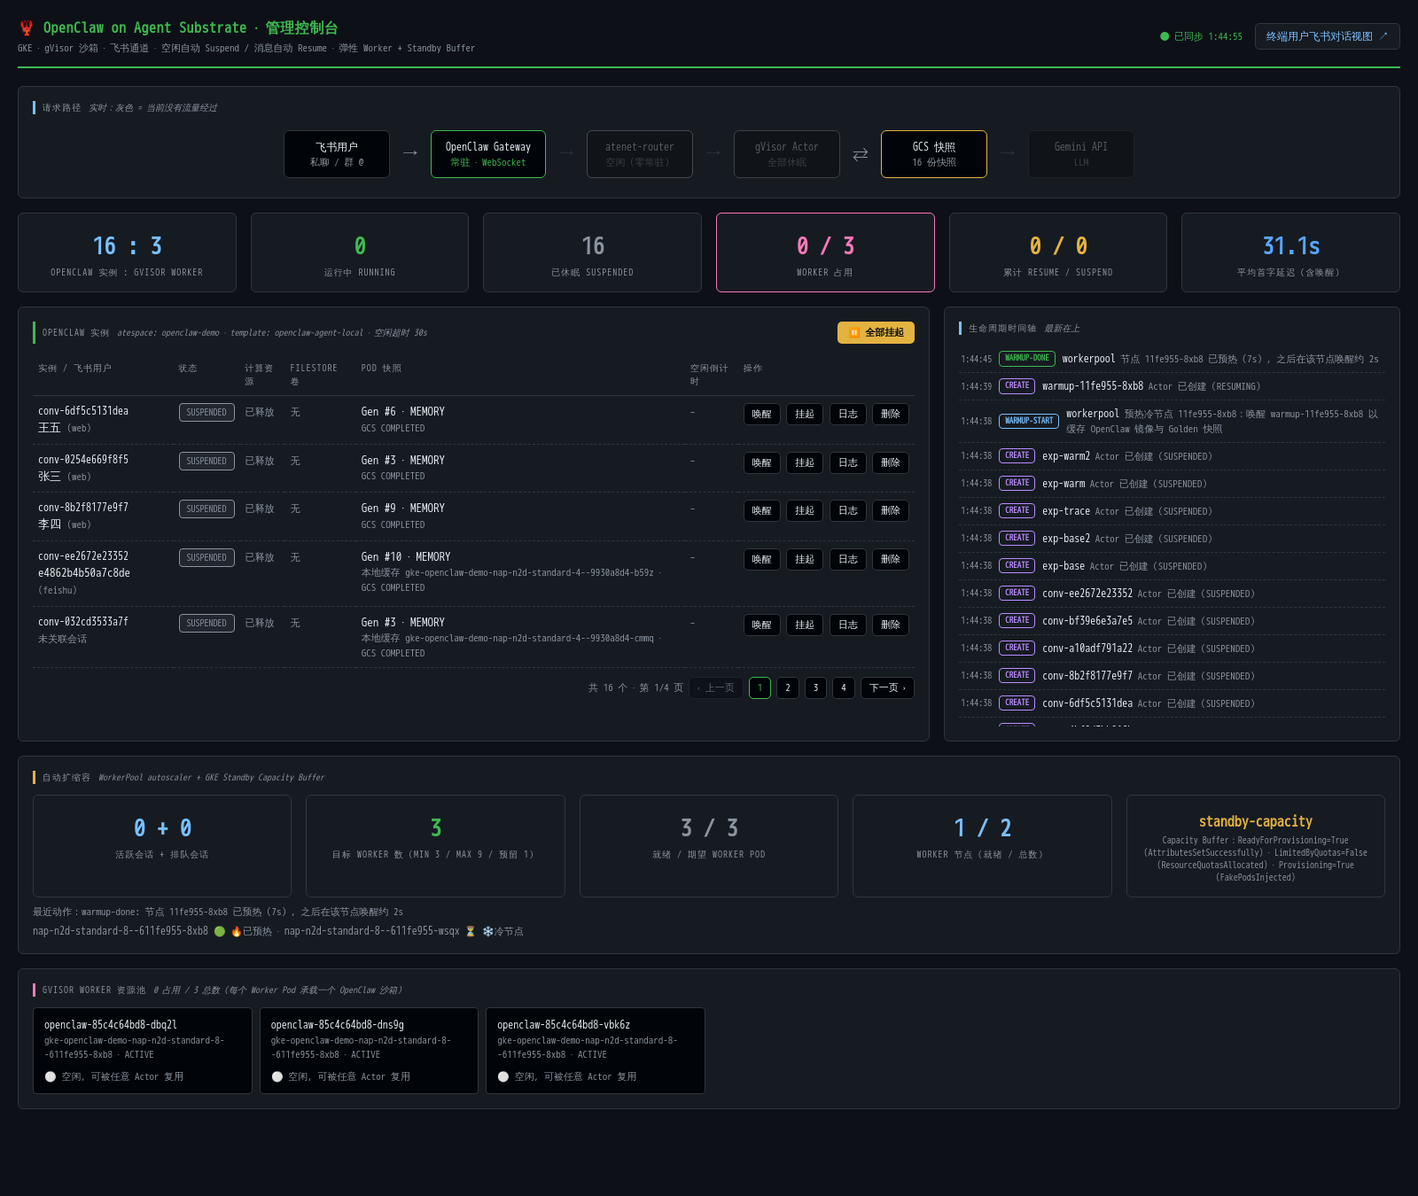
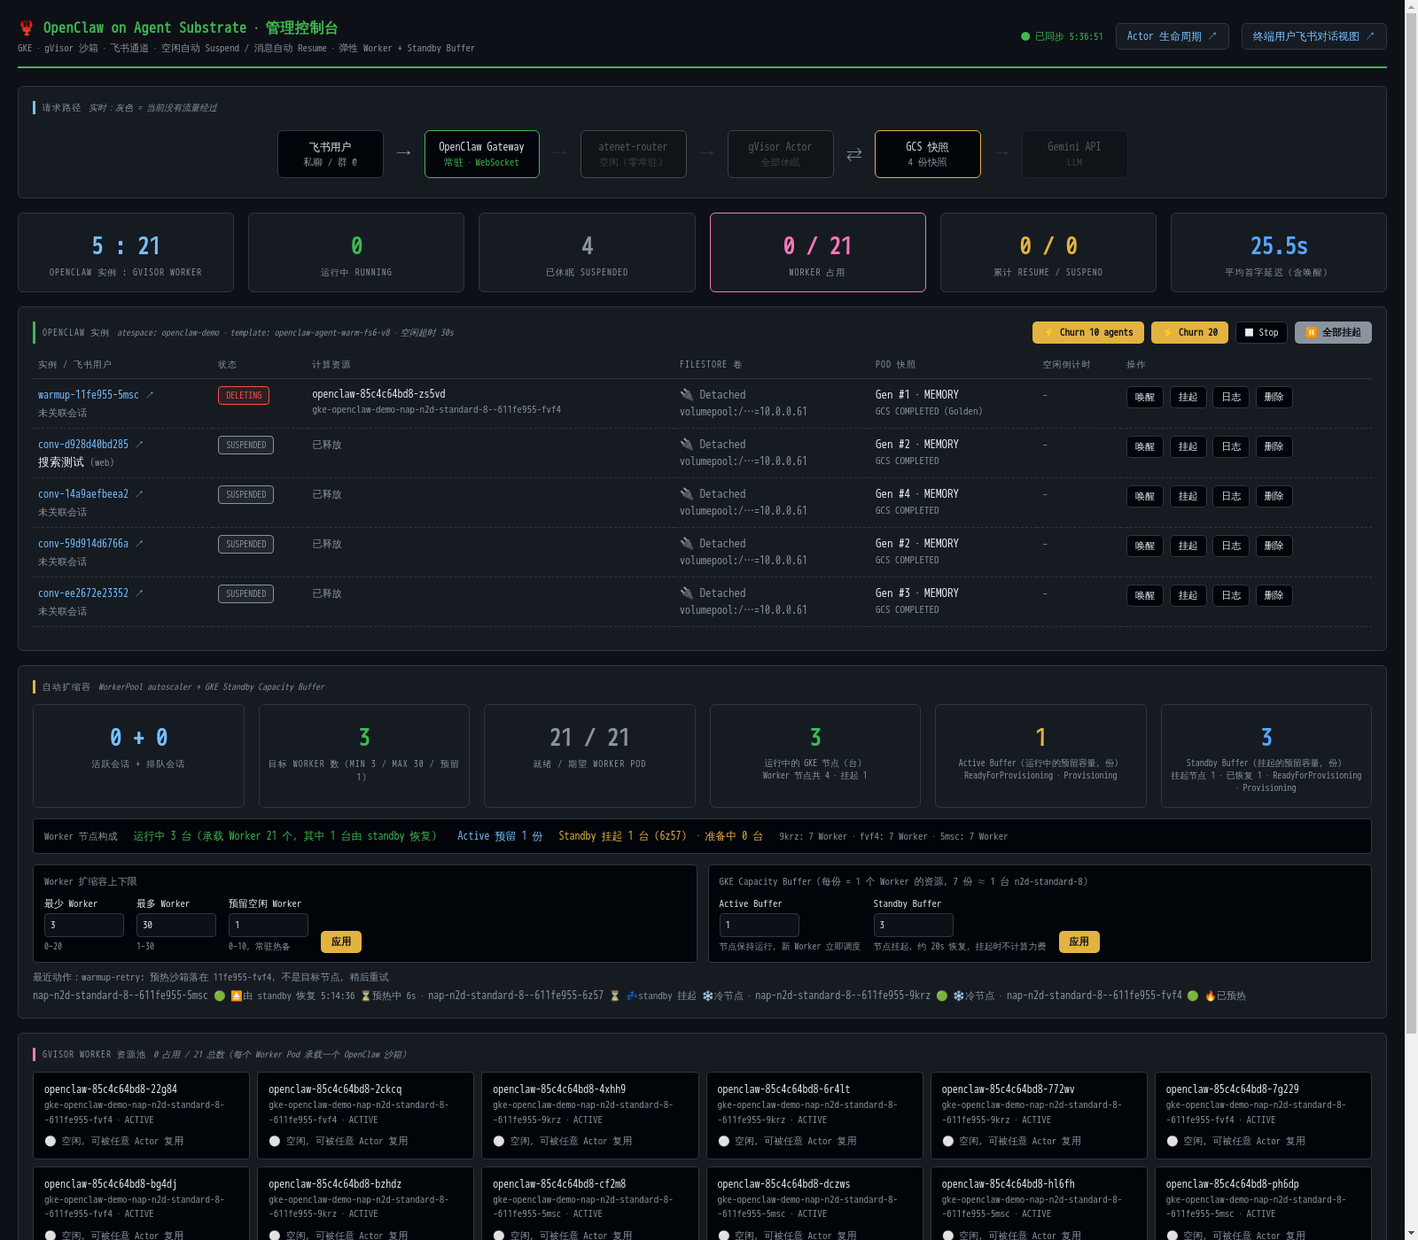
openclaw/substrate-poc: active buffer, buffer controls, web search fix
- Actor openclaw.json: web search uses Gemini grounding with
  gemini-3-flash-preview (gemini-2.5-flash returns 404 on this API).
- New templates: openclaw-agent-warm-fs6-v8 (Filestore) and
  openclaw-agent-warm2-v8 (local / churn).
- capacitybuffer.yaml adds an Active CapacityBuffer (replicas 0); deploy.sh
  creates buffers only if absent so console edits survive redeploys.
- Console: running GKE node KPI, worker node composition row, inline
  controls for min/max/spare and active/standby buffer replicas, and standby
  resume detection (GKE drops the standby taint on resume).
- AUTOSCALE_MAX default 9 -> 21 so buffers can actually be triggered.
- Guide: active vs standby buffer, how to trigger them, console controls,
  troubleshooting for web search and untriggered buffers.

diff --git a/openclaw/substrate-poc/dashboard2/console.html b/openclaw/substrate-poc/dashboard2/console.html
@@ -99,6 +99,9 @@ td.ops{white-space:nowrap}.kpi .l.cond{text-transform:none;letter-spacing:0;font
 .fleet-lc{grid-template-columns:1fr;align-items:start}.fleet-lc.open{grid-template-columns:3fr 2fr}.fleet-lc .c-tl{display:none}.fleet-lc.open .c-tl{display:block}.fleet-lc .lc-main{max-height:620px}
 .fleet-lc .lc-sum{grid-template-columns:repeat(2,1fr)}
 .churn-status{font-size:11px;color:var(--cyan);margin:-4px 0 8px;min-height:0}.churn-status .ln{color:var(--muted)}
+.ctls{display:grid;grid-template-columns:1fr 1fr;gap:12px;margin-top:12px}.ctl-group{background:var(--panel2);border:1px solid var(--line);border-radius:4px;padding:10px 12px;display:flex;flex-wrap:wrap;gap:8px 14px;align-items:flex-end}
+.ctl-group>b{width:100%;font-size:11px;color:var(--muted);font-weight:600}.ctl{display:flex;flex-direction:column;gap:3px;font-size:11px}.ctl input{width:90px;background:var(--bg);color:var(--text);border:1px solid var(--line);border-radius:4px;padding:4px 6px;font:inherit}.ctl em{font-style:normal;color:var(--muted);font-size:10px;max-width:220px}
+.comp{display:flex;flex-wrap:wrap;gap:6px 18px;align-items:center;margin-top:12px;padding:10px 12px;background:var(--panel2);border:1px solid var(--line);border-radius:4px;font-size:12px}.comp>b{font-size:11px;color:var(--muted)}.c-run{color:var(--green)}.c-act{color:var(--cyan)}.c-sb{color:var(--yellow)}
 .pager{display:flex;gap:6px;align-items:center;justify-content:flex-end;margin-top:10px;font-size:11px;color:var(--muted)}
 .pager button.on{border-color:var(--green);color:var(--green)}.pager button:disabled{opacity:.35;cursor:default;border-color:var(--line);color:var(--text)}
 @media(max-width:1100px){.kpis{grid-template-columns:repeat(3,1fr)}.grid2{grid-template-columns:1fr}}
@@ -270,6 +273,9 @@ function renderChurn(d){
   const head=c.running?`⚡ Churn 进行中：${c.count} 个 Actor / ${(d.workers||[]).length} 个 Worker · 剩余 ${c.secsLeft}s · 已完成 ${c.cycles} 个周期 · 拒绝重试 ${c.refused} 次${c.failed?` · 其他错误 ${c.failed}`:""} · Worker ${d.autoscaler?.readyReplicas??"?"}/${d.autoscaler?.replicas??"?"}（目标 ${d.autoscaler?.desired??"?"}）`:"";
   el.innerHTML=(head?`<div>${head}</div>`:"")+(c.log||[]).slice(0,c.running?2:1).map(l=>`<div class="ln">${clock(l.at)} ${esc(l.msg)}</div>`).join("");
 }
+async function postJSON(path,body){const r=await fetch(path,{method:"POST",headers:{"content-type":"application/json"},body:JSON.stringify(body)});const d=await r.json();if(!d.ok)alert(d.error||"失败");refresh();return d;}
+function saveAs(){postJSON("/api/autoscaler/config",{min:+$("as-min").value,max:+$("as-max").value,spare:+$("as-spare").value});}
+async function saveBuf(){await postJSON("/api/buffer",{kind:"active",replicas:+$("bf-active").value});await postJSON("/api/buffer",{kind:"standby",replicas:+$("bf-standby").value});}
 function render(d){
   const A=d.actors||[],W=d.workers||[];
   const cnt=s=>A.filter(a=>a.status===s).length;
@@ -331,18 +337,53 @@ function render(d){
     <div class="small">${esc(w.node)} · ${esc(w.state)}</div>
     <div style="margin-top:6px">${w.actor?`🟢 <span class="mono">${esc(w.actor)}</span> <span class="badge ${w.actorStatus}">${w.actorStatus}</span>`:'<span class="small">⚪ 空闲，可被任意 Actor 复用</span>'}</div></div>`).join("")||'<span class="small">无 Worker</span>';
   const as=d.autoscaler||{};
-  const b=as.buffer||{};
-  const bcond=(b.conditions||[]).map(c=>`${esc(c.type)}=${esc(c.status)}${c.reason?" ("+esc(c.reason)+")":""}`).join(" · ")||esc(b.error||"–");
+  const sb=as.buffer||{}, ab=as.activeBuffer||{};
+  const bc=b0=>(b0.conditions||[]).filter(c=>c.status==="True").map(c=>esc(c.type)).join(" · ")||esc(b0.error||"–");
+  const nodes=as.nodes||[];
+  const nStandby=nodes.filter(n=>n.standby&&n.suspended).length, nResumed=nodes.filter(n=>n.resumedAt||(n.standby&&!n.suspended)).length, nPrep=nodes.filter(n=>n.standby&&n.suspended&&!n.ready).length;
+  // Node composition: which worker nodes are carrying workers vs. held in reserve.
+  const wPer={};for(const w of (d.workers||[]))if(w.node)wPer[w.node]=(wPer[w.node]||0)+1;
+  const comp={running:[],resumed:[],suspended:[],preparing:[],idle:[]};
+  for(const n of nodes){const k=wPer[n.name]||0;
+    if(n.standby&&n.suspended)comp.suspended.push(n);
+    else if(k>0)((n.standby||n.resumedAt)?comp.resumed:comp.running).push(n);
+    else if(!n.ready)comp.preparing.push(n);
+    else comp.idle.push(n);}
+  const wTot=Object.values(wPer).reduce((a,b)=>a+b,0);
+  const nRun=nodes.filter(n=>n.ready&&!(n.standby&&n.suspended)).length, nPrep2=nodes.filter(n=>!n.ready&&!(n.standby&&n.suspended)).length;
+  const nm=n=>esc(n.name.slice(-4));
+  const compLine=`<div class="comp"><b>Worker 节点构成</b>
+    <span class="c-run">运行中 ${comp.running.length+comp.resumed.length} 台（承载 Worker ${wTot} 个${comp.resumed.length?`，其中 ${comp.resumed.length} 台由 standby 恢复`:""}）</span>
+    <span class="c-act">Active 预留 ${ab.specReplicas??0} 份${comp.idle.length?` · 空闲运行节点 ${comp.idle.length} 台（${comp.idle.map(nm).join(", ")}）`:""}</span>
+    <span class="c-sb">Standby 挂起 ${comp.suspended.length} 台${comp.suspended.length?`（${comp.suspended.map(nm).join(", ")}）`:""} · 准备中 ${comp.preparing.length} 台${comp.preparing.length?`（${comp.preparing.map(nm).join(", ")}）`:""}</span>
+    <span class="small">${[...comp.running,...comp.resumed].map(n=>`${nm(n)}: ${wPer[n.name]} Worker`).join(" · ")}</span></div>`;
+  const ctl=(id,label,val,lo,hi,hint)=>`<label class="ctl"><span>${label}</span><input type="number" id="${id}" value="${val}" min="${lo}" max="${hi}"><em>${hint}</em></label>`;
+  const editing=["as-min","as-max","as-spare","bf-active","bf-standby"].some(id=>document.activeElement&&document.activeElement.id===id);
+  if(!editing){
   $("autoscale").innerHTML=as.enabled===false?'<span class="small">未启用</span>':
-    `<div class="kpis" style="grid-template-columns:repeat(5,1fr)">
+    `<div class="kpis" style="grid-template-columns:repeat(6,1fr)">
       <div class="kpi"><div class="v">${as.active??"–"} + ${as.waiting??0}</div><div class="l">活跃会话 + 排队会话</div></div>
       <div class="kpi"><div class="v">${as.desired??"–"}</div><div class="l">目标 Worker 数（min ${as.min} / max ${as.max} / 预留 ${as.spare}）</div></div>
       <div class="kpi"><div class="v">${as.readyReplicas??"–"} / ${as.replicas??"–"}</div><div class="l">就绪 / 期望 Worker Pod</div></div>
-      <div class="kpi"><div class="v">${(as.nodes||[]).filter(n=>n.ready).length} / ${(as.nodes||[]).length}</div><div class="l">Worker 节点（就绪 / 总数）</div></div>
-      <div class="kpi"><div class="v" style="font-size:16px">${esc(b.strategy||"–").replace("buffer.gke.io/","")}</div><div class="l cond">Capacity Buffer：${bcond}</div></div>
+      <div class="kpi"><div class="v" style="color:var(--green)">${nRun}</div><div class="l cond">运行中的 GKE 节点（台）<br>Worker 节点共 ${nodes.length} · 挂起 ${nStandby}${nPrep2?` · 准备中 ${nPrep2}`:""}</div></div>
+      <div class="kpi"><div class="v">${ab.specReplicas??"–"}</div><div class="l cond">Active Buffer（运行中的预留容量，份）<br>${bc(ab)}</div></div>
+      <div class="kpi"><div class="v">${sb.specReplicas??"–"}</div><div class="l cond">Standby Buffer（挂起的预留容量，份）<br>挂起节点 ${nStandby} · 已恢复 ${nResumed} · ${bc(sb)}</div></div>
+    </div>
+    ${compLine}
+    <div class="ctls">
+      <div class="ctl-group"><b>Worker 扩缩容上下限</b>
+        ${ctl("as-min","最少 Worker",as.min,0,20,"0–20")}
+        ${ctl("as-max","最多 Worker",as.max,1,30,"1–30")}
+        ${ctl("as-spare","预留空闲 Worker",as.spare,0,10,"0–10，常驻热备")}
+        <button class="primary" onclick="saveAs()">应用</button></div>
+      <div class="ctl-group"><b>GKE Capacity Buffer（每份 = 1 个 Worker 的资源，7 份 ≈ 1 台 n2d-standard-8）</b>
+        ${ctl("bf-active","Active Buffer",ab.specReplicas??0,0,21,"节点保持运行，新 Worker 立即调度")}
+        ${ctl("bf-standby","Standby Buffer",sb.specReplicas??0,0,21,"节点挂起，约 20s 恢复，挂起时不计算力费")}
+        <button class="primary" onclick="saveBuf()">应用</button></div>
     </div>
     <div class="small" style="margin-top:8px">${as.lastAction?"最近动作："+esc(as.lastAction):""} ${as.lastError?'<span class="err">'+esc(as.lastError)+'</span>':""}</div>
-    <div class="small" style="margin-top:4px">${(as.nodes||[]).map(n=>{const w=(as.warmNodes||[]).includes(n.name);const ing=as.warming&&as.warming.node===n.name;return `<span class="mono">${esc(n.name.replace("gke-openclaw-demo-",""))}</span> ${n.ready?"🟢":"⏳"} ${ing?"⏳预热中 "+as.warming.elapsedSec+"s":w?"🔥已预热":"❄冷节点"}`}).join(" · ")}</div>`;
+    <div class="small" style="margin-top:4px">${nodes.map(n=>{const w=(as.warmNodes||[]).includes(n.name);const ing=as.warming&&as.warming.node===n.name;const sbTag=n.standby?(n.suspended?" 💤standby 挂起":" ⏏standby 已恢复"):(n.resumedAt?" ⏏由 standby 恢复 "+new Date(n.resumedAt).toLocaleTimeString("zh-CN",{hour12:false}):"");return `<span class="mono">${esc(n.name.replace("gke-openclaw-demo-",""))}</span> ${n.ready?"🟢":"⏳"}${sbTag} ${ing?"⏳预热中 "+as.warming.elapsedSec+"s":w?"🔥已预热":"❄冷节点"}`}).join(" · ")}</div>`;
+  }
 }
 async function refresh(){try{const d=await (await fetch("/api/state")).json();last=d;render(d)}catch(e){const y=$("sync");if(y){y.textContent="● 连接中断，重试中…";y.style.color="var(--red)"}}}
 setInterval(refresh,1500);refresh();

diff --git a/openclaw/substrate-poc-user-guide-zh.md b/openclaw/substrate-poc-user-guide-zh.md
@@ -424,11 +424,11 @@ TEMPLATE_ONLY=true OPENCLAW_VERSION=2026.8.2 STORAGE=local ./deploy.sh
 
 `deploy.sh` 是幂等的，依次完成：
 
-0. 渲染并应用 Worker 节点类 **ComputeClass** `openclaw-workers`，以及 Standby **CapacityBuffer**（设置 `CAPACITY_BUFFER_ENABLED=false` 可跳过 buffer）
+0. 渲染并应用 Worker 节点类 **ComputeClass** `openclaw-workers`，以及 Standby / Active 两个 **CapacityBuffer**（仅在不存在时创建，重复部署不会覆盖控制台里改过的份数；设置 `CAPACITY_BUFFER_ENABLED=false` 可跳过）
 1. 创建命名空间 `openclaw-workers`，部署 **WorkerPool** `openclaw`（默认 3 个 Worker，每个 request 500m/3.5Gi，limit 4CPU/4Gi）
 2. 创建命名空间 `openclaw`（打上 `ate.dev/api-access=true` 标签）和密钥
 3. 创建 **atespace** `openclaw-demo`，并通过 access policy 把 `editor` 角色授予网关和控制台的 SA
-4. 创建 golden **ActorTemplate**（`openclaw-agent-warm-fs5-v8`，本地存储模式为 `openclaw-agent-warm-v8`）：
+4. 创建 golden **ActorTemplate**（Filestore 模式为 `openclaw-agent-warm-fs6-v8`，本地存储模式及 churn 压测为 `openclaw-agent-warm2-v8`）：
    - `wakeupProbe: GET :8079/, timeout 900s`：actor 镜像的 entrypoint 在 OpenClaw `/readyz` 通过后，先在沙箱内跑一次本地预热对话，再启动 `wakeup.mjs` 打开 8079 端口；`wakeup.mjs` 在每次唤醒时补齐引导文件并创建 `files/` 软链接，且始终返回就绪。golden 因此包含**完整初始化后的 agent 运行时**，新用户首轮不用再等约 40 秒的懒加载（详见 14.3）
    - `preferredFidelity: SNAPSHOT_FIDELITY_MEMORY`：连同进程内存一起快照，唤醒后直接接着对话
    - 资源：1 vCPU / 2.5 GiB
@@ -454,6 +454,7 @@ kubectl ate get actor-templates -a openclaw-demo
 | `channels.feishu.dmPolicy` / `allowFrom` | `open` / `["*"]` | 允许所有可见范围内的用户私聊 |
 | `channels.feishu.groupPolicy` / `requireMention` / `groupSessionScope` | `open` / `true` / `group` | 群里 @机器人 才回复，每个群一个智能体 |
 | `agents.defaults.model` | `google/gemini-3-flash-preview` | 可改为其他 Gemini 模型 |
+| actor 镜像 `openclaw.json`：`tools.web.search.provider` / `plugins.entries.google.config.webSearch.model` | `gemini` / `gemini-3-flash-preview` | 联网搜索走 Gemini grounding（只需要 `generativelanguage.googleapis.com` 出网）。默认的 `gemini-2.5-flash` 在该 API 上返回 404，智能体会回复“搜索工具出现技术故障” |
 | Envoy `x-forwarded-for` | `%ENVIRONMENT(POD_IP)%` | OpenClaw 2026.11 要求代理带客户端归属头，缺失会返回 403 |
 
 ### 10.3 多用户路由（零配置）
@@ -498,7 +499,7 @@ flowchart TD
 |---|---|---|
 | Worker 层 | 自定义控制器（控制台内置）按活跃用户数扩缩 WorkerPool | 秒级响应，决定跑多少个沙箱槽位 |
 | 节点层 | GKE NAP + ComputeClass `openclaw-workers` | 按 Pending Pod 自动创建或回收 n2d-standard-8 节点（每节点最多放 7 个 Worker） |
-| 预备层 | GKE **CapacityBuffer（standby）** | 预留一台已初始化并**挂起**的节点：闲置时不收计算费用，需要时约 30 秒恢复 |
+| 预备层 | GKE **CapacityBuffer（standby / active）** | standby：预留已初始化并**挂起**的节点，闲置时不收计算费用，需要时约 20–30 秒恢复；active：预留**运行中**的空闲容量，新 Worker 立即调度（按运行节点计费） |
 
 > [!NOTE]
 > **为什么不用 HPA？** GKE 没有现成的“活跃沙箱数”指标。HPA 方案需要把 Substrate 指标导出到 Cloud Monitoring，再配 Custom Metrics Adapter，链路长、响应慢（通常 30–60s）。POC 采用自定义控制器：直接读取 Substrate 的 actor 状态，在 1 秒内决策，还能顺带做节点预热。生产上两种方式都可以，见第 17 节。
@@ -529,6 +530,26 @@ kubectl -n openclaw-workers get capacitybuffer openclaw-worker-standby -o yaml
 
 约 5 分钟后，GKE 会创建一台节点，初始化完成后把它**挂起**。可在 Compute Engine 实例列表中看到它处于 `SUSPENDED` 状态。
 
+同一个文件里还有一个 **Active CapacityBuffer** `openclaw-worker-active`（`provisioningStrategy: buffer.x-k8s.io/active-capacity`，默认 `replicas: 0`）。两者对比：
+
+| | Standby Buffer | Active Buffer |
+|---|---|---|
+| 预留形式 | 已初始化后**挂起**的节点 | 运行中节点上的空闲容量（虚拟占位 Pod，条件 `FakePodsInjected`） |
+| 闲置成本 | 只收磁盘费用 | 按运行节点计费 |
+| 被消耗后的就绪时间 | 约 20–30s（恢复节点） | 立即（节点已在运行） |
+| 消耗后 | GKE 自动再建一台节点并挂起，补满份数 | CA 自动补足空闲容量 |
+
+> [!IMPORTANT]
+> **buffer 只在 Worker Pod 因“现有节点放不下”而 Pending 时才会被消耗。** 每份 = 1 个 Worker 的资源（500m / 3.5Gi），一台 n2d-standard-8 约放 7–8 个 Worker。
+> - 如果 `AUTOSCALE_MAX` 很小（例如 9），2 台运行节点就能放下全部 Worker，永远不会 Pending，buffer 也就不会被触发。演示 buffer 时请把上限调到 21 以上（`dashboard.yaml.tmpl` 默认已改为 21，也可在控制台在线修改）。
+> - Active Buffer 的份数如果小于现有节点上的空位，CA 认为已满足，不会新拉节点；要看到“多一台空闲运行节点”，份数需要大于现有空位。
+> - 控制台上 buffer 的大数字是**设定的份数**（`spec.replicas`），被消耗后 GKE 会自动补回，所以这个数字通常不变；实际发生的恢复看“已恢复”计数、节点构成行和事件流。
+
+**触发演示**：
+
+1. 控制台把“最多 Worker”调到 21，点 **⚡ Churn 20**：Worker 需求超过 2 台节点的容量，Pending Pod 触发 standby 节点恢复，事件流出现“Standby 节点 xxx 已被恢复”，随后 GKE 再建一台新的挂起节点补足份数。
+2. Active：把 Active Buffer 设为大于现有空位的份数（例如 12），等出现一台“空闲运行节点”，再点 Churn 20，新 Worker 直接落在这台节点上。演示后改回 0 以节省成本。
+
 ### 11.4 自定义扩缩容控制器（控制台内置）
 
 控制器代码在 `dashboard2/autoscaler.mjs`，通过 `dashboard.yaml.tmpl` 中的环境变量配置：
@@ -536,17 +557,17 @@ kubectl -n openclaw-workers get capacitybuffer openclaw-worker-standby -o yaml
 | 变量 | 默认值 | 说明 |
 |---|---|---|
 | `AUTOSCALE` | `true` | 总开关 |
-| `AUTOSCALE_MIN` / `AUTOSCALE_MAX` | `3` / `9` | Worker 副本上下限 |
+| `AUTOSCALE_MIN` / `AUTOSCALE_MAX` | `3` / `21` | Worker 副本上下限（上限太小时 buffer 不会被触发，见 11.3） |
 | `AUTOSCALE_SPARE` | `1` | 在活跃数之外额外保留的空闲 Worker，调大可降低新用户的等待 |
 | `AUTOSCALE_COOLDOWN_MS` | `180000` | 缩容冷却时间，每次只缩 1 个 |
-| `CAPACITY_BUFFER` | `openclaw-worker-standby` | 在控制台展示 buffer 状态 |
+| `CAPACITY_BUFFER` / `ACTIVE_CAPACITY_BUFFER` | `openclaw-worker-standby` / `openclaw-worker-active` | 控制台展示并可在线调整的 buffer |
 
 **节点预热**：控制器发现新的 Worker 节点后，会在该节点上创建一个 `warmup-*` 临时沙箱，让 atelet 先拉取并解压 OpenClaw 镜像、缓存 golden 快照，完成后立即删除。一次只预热一个节点，每个节点最多重试 3 次。
 
 > [!NOTE]
 > 沙箱镜像由 atelet 自己的镜像缓存拉取，不经过 containerd，所以 **GKE Image Streaming 对沙箱冷启动没有加速效果**。控制器层面的预热才是有效手段。
 
-控制台“自动扩缩容”面板可以实时查看 active / waiting / desired / replicas、节点、预热状态和事件流，也可以在线修改上述参数。
+控制台“自动扩缩容”面板可以实时查看 active / waiting / desired / replicas、运行中的 GKE 节点数、两个 buffer、节点构成、预热状态和事件流，也可以在线修改 min / max / spare（保存在 ConfigMap `openclaw-autoscaler-config`，控制台重启后保留）以及 Active / Standby buffer 份数（0–21）。
 
 ---
 
@@ -626,6 +647,11 @@ curl -s http://$IP/api/state | jq '.autoscaler | {active, waiting, desired, repl
 
 - **实例表**：分页（每页 5 个，RUNNING 排前）；点击实例名，右侧展开该 Actor 的**生命周期面板**，再次点击或点 ✕ 关闭；名字旁的 ↗ 打开全屏页 `/lifecycle?actor=<name>`。
 - **生命周期**：按 Actor 展示每次 唤醒 → 对话 → 空闲 → 挂起，耗时分解（调度/路由、下载快照、解压镜像、恢复进程、对话、空闲、Checkpoint、上传快照）来自 atelet 的 `Restore / Checkpoint timing breakdown` 日志（控制台需要读取 `ate-system` Pod 日志的只读权限，已内置）。
+- **自动扩缩容面板**：
+  - KPI：活跃 + 排队会话、目标 Worker 数、就绪 / 期望 Worker、**运行中的 GKE 节点（台）**、Active Buffer 份数、Standby Buffer 份数（附挂起节点数和“已恢复”次数）。
+  - **Worker 节点构成**行：运行中节点（其中由 standby 恢复的）、空闲运行节点、挂起的 standby 节点、准备中节点，以及每台节点上的 Worker 数。
+  - 在线输入框：Worker 最少 / 最多 / 预留空闲，Active / Standby buffer 份数。
+  - standby 恢复检测：GKE 恢复节点时会移除 standby taint，控制台记住曾是 standby 的节点，在 taint 消失时记录恢复时间（写入 ConfigMap），并在事件流中提示。
 - **⚡ Churn 10 / 20**：合成 Actor 在 Worker 池上循环 唤醒→占用 1.5s→挂起；排队的 Actor 计入扩容需求（会触发 Worker 扩容和 standby 节点恢复）；结束后自动删除 churn Actor；使用 `CHURN_TEMPLATE`（本地存储模板），不创建 Filestore 卷。
 
 ### 界面二：终端用户对话视图 `http://<EXTERNAL-IP>/chat`
@@ -751,6 +777,8 @@ POC 实测数据（gVisor，Gemini Flash 模型；Worker 节点起初为 n2d-sta
 | 飞书 @机器人 没反应 | `kubectl -n openclaw logs deploy/openclaw-gateway -c gateway \| grep feishu` | 没有任何 received 日志：检查权限、事件订阅（长连接 + `im.message.receive_v1`）和版本是否已发布；日志里有 `groupPolicy=disabled`：检查群聊配置 |
 | 回复 “Couldn't sign in to the AI service” | 网关日志中查看 `dispatching to agent` 的 session | 应该是 `acp:...` 形式。如果不是，确认插件版本包含自动路由兜底 |
 | 新用户回复为空，actor 日志有 `atomic bootstrap publication` | OpenClaw 2026.11 的工作区放在了 Filestore 上 | 使用代码包的 Filestore 布局（工作区本地、用户文件在 `files/`），或改用 2026.8.2 |
+| 智能体回复“搜索工具出现技术故障 / API 接口配置问题” | actor 日志中 web_search 返回 404 | 搜索模型不可用：把 actor 镜像 `openclaw.json` 中 `webSearch.model` 设为 `gemini-3-flash-preview`，重新构建镜像并创建新模板。配置打包在镜像和快照里，**已有 actor 不会生效**，需要删除后让网关按新模板重建（会丢失记忆） |
+| Standby / Active buffer 一直没被触发 | 控制台“Worker 节点构成”行 | Worker 上限太小，现有节点放得下全部 Worker，不会 Pending。把最多 Worker 调到 21 以上再压测（见 11.3） |
 | 创建 actor 报 `require the ExternalVolumes preview gate ... --preview` | 调用 kubectl-ate 没带 `--preview` | 代码包已内置；手动操作时用 `kubectl ate --preview ...` |
 | golden 一直生成不出来，ate-controller 报 `CSI CreateVolume failed ... certificate has expired` | Filestore CSI 控制器证书过期 | `kubectl -n gcp-filestore-csi-driver rollout restart deploy/gcp-filestore-csi-controller`；并应用 `filestore-csi-cert-refresh.yaml` |
 | agent 说 `files/` 没有写权限 | Filestore 卷根目录属于 root，actor 以 uid 1000 运行 | Filestore 模式使用 `:demo-fs` 镜像（`RUN_AS_UID=0`），`deploy.sh` 自动选择 |
